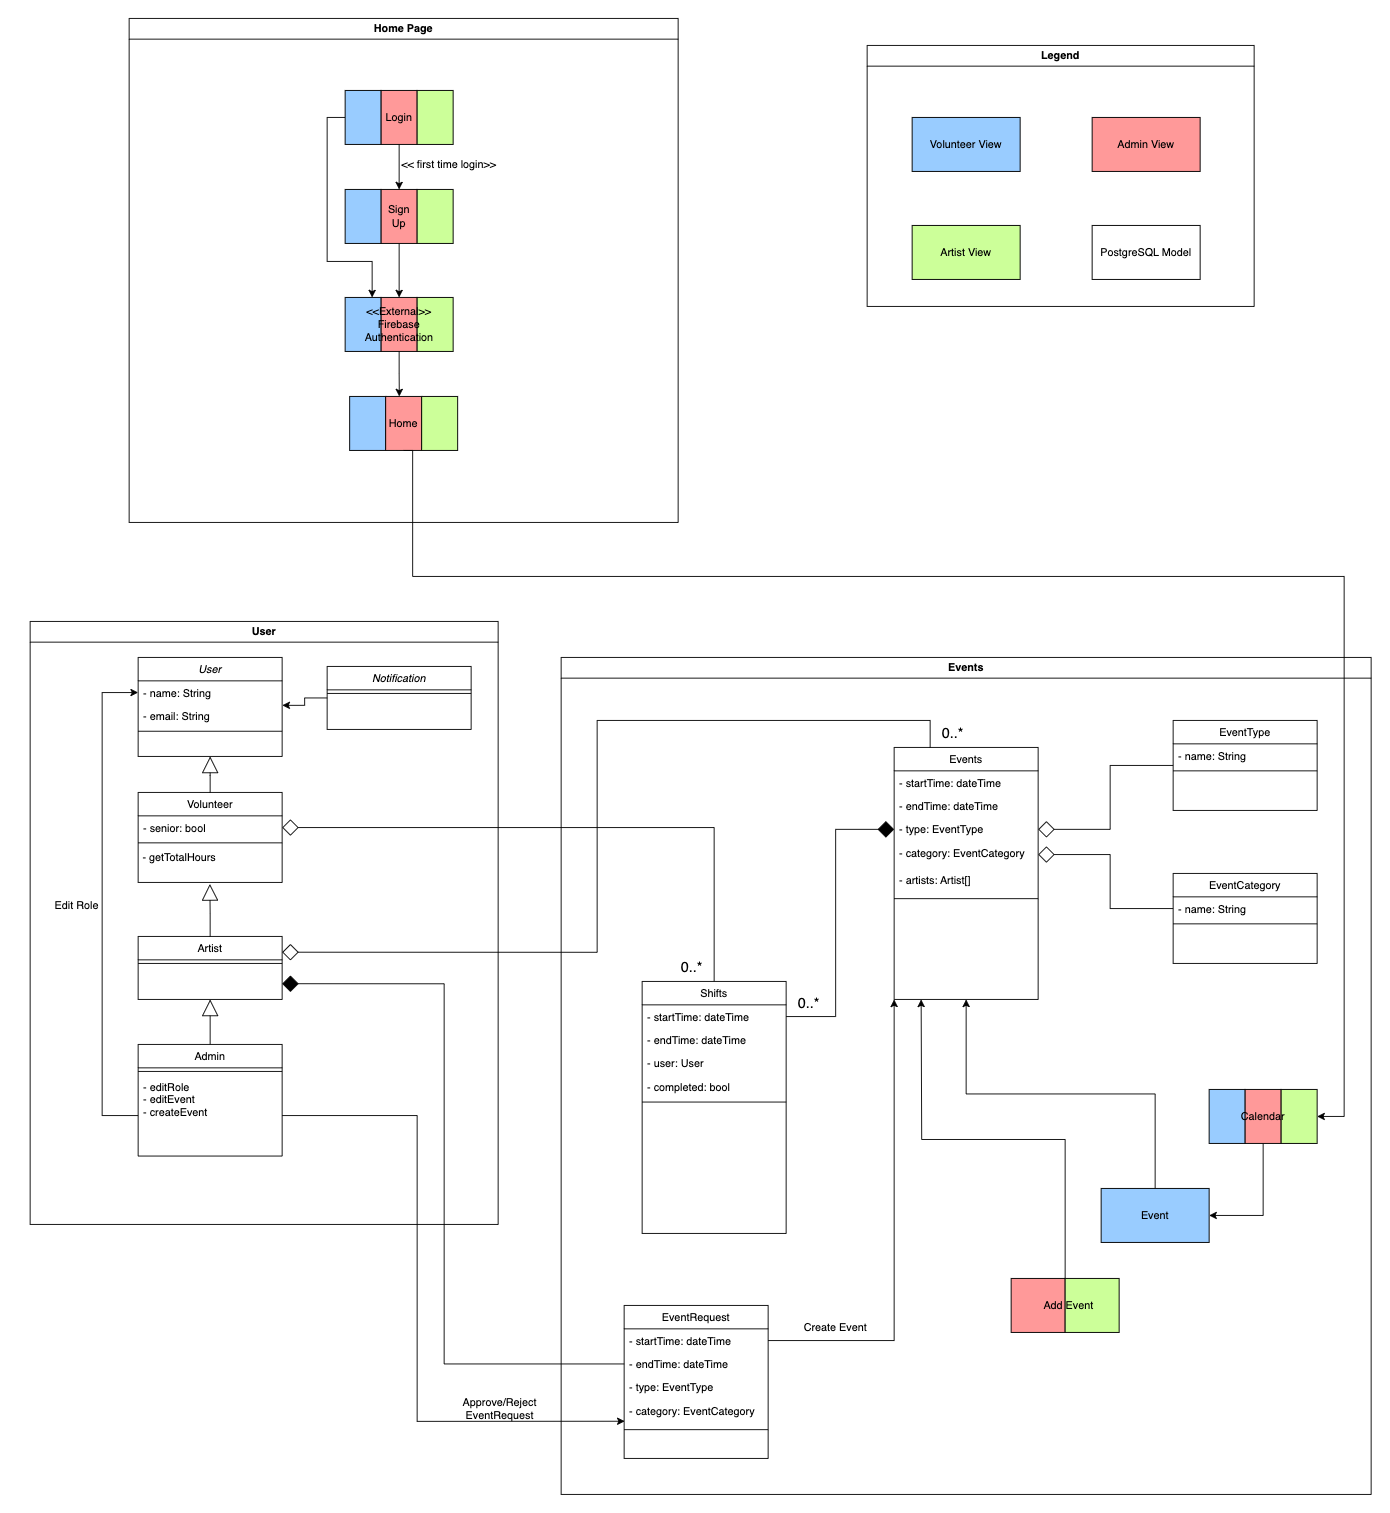
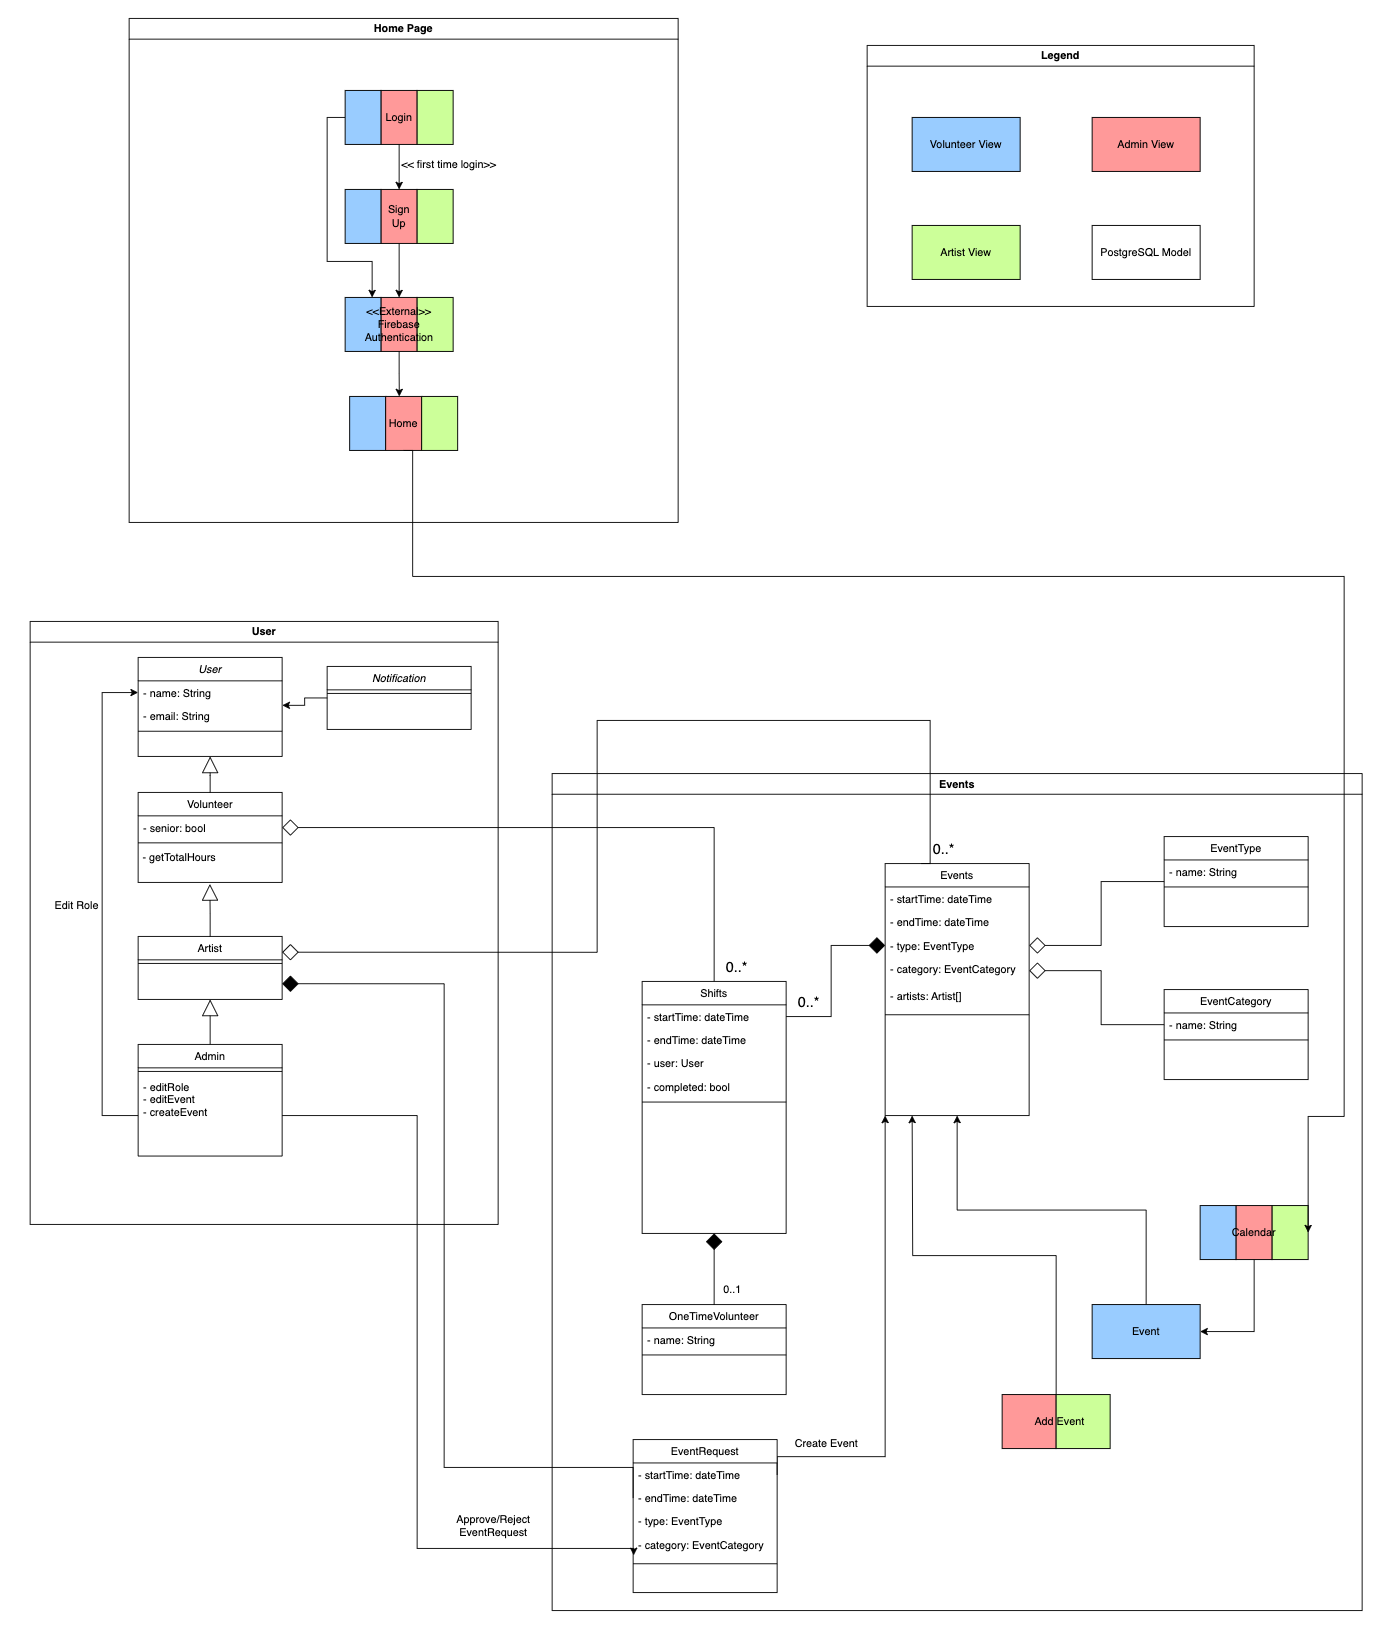
Deployed d3828dd with MkDocs version: 1.6.1

diff --git a/requirements-traceability-matrix/index.html b/requirements-traceability-matrix/index.html
@@ -8,7 +8,7 @@
         
         
         <link rel="shortcut icon" href="../img/favicon.ico">
-        <title>Software Design - Bleeding Heart Art Space</title>
+        <title>Requirements Traceability Matrix - Bleeding Heart Art Space</title>
         <link href="../css/bootstrap.min.css" rel="stylesheet">
         <link href="../css/fontawesome.min.css" rel="stylesheet">
         <link href="../css/brands.min.css" rel="stylesheet">
@@ -41,7 +41,7 @@
                                 <a href="../project-requirements/" class="nav-link">Project Requirements</a>
                             </li>
                             <li class="nav-item">
-                                <a href="./" class="nav-link active" aria-current="page">Software Design</a>
+                                <a href="../software-design/" class="nav-link">Software Design</a>
                             </li>
                             <li class="nav-item">
                                 <a href="../project-management/" class="nav-link">Project Management</a>
@@ -57,16 +57,6 @@
                                 <i class="fa fa-search"></i> Search
                             </a>
                         </li>
-                            <li class="nav-item">
-                                <a rel="prev" href="../project-requirements/" class="nav-link">
-                                    <i class="fa fa-arrow-left"></i> Previous
-                                </a>
-                            </li>
-                            <li class="nav-item">
-                                <a rel="next" href="../project-management/" class="nav-link">
-                                    Next <i class="fa fa-arrow-right"></i>
-                                </a>
-                            </li>
                     </ul>
                 </div>
             </div>
@@ -85,21 +75,9 @@
     <div id="toc-collapse" class="navbar-collapse collapse card bg-body-tertiary">
         <ul class="nav flex-column">
             
-            <li class="nav-item" data-bs-level="1"><a href="#software-design" class="nav-link">Software Design</a>
+            <li class="nav-item" data-bs-level="1"><a href="#requirements-traceability-matrix" class="nav-link">Requirements Traceability Matrix</a>
               <ul class="nav flex-column">
-            <li class="nav-item" data-bs-level="2"><a href="#architecture-diagram" class="nav-link">Architecture Diagram</a>
-              <ul class="nav flex-column">
-              </ul>
-            </li>
-            <li class="nav-item" data-bs-level="2"><a href="#uml-class-diagram" class="nav-link">UML Class Diagram</a>
-              <ul class="nav flex-column">
-              </ul>
-            </li>
-            <li class="nav-item" data-bs-level="2"><a href="#sequence-diagrams" class="nav-link">Sequence Diagrams</a>
-              <ul class="nav flex-column">
-              </ul>
-            </li>
-            <li class="nav-item" data-bs-level="2"><a href="#low-fidelity-user-interface" class="nav-link">Low-Fidelity User Interface</a>
+            <li class="nav-item" data-bs-level="2"><a href="#sprint-2-tests" class="nav-link">Sprint 2 Tests</a>
               <ul class="nav flex-column">
               </ul>
             </li>
@@ -110,37 +88,51 @@
 </div></div>
                     <div class="col-md-9" role="main">
 
-<h1 id="software-design">Software Design</h1>
-<p>This page includes a short description of the overall architecture style of the system, its high-level system components, and their logical (what data they exchange) and control (how they invoke each other) dependencies.</p>
-<h2 id="architecture-diagram">Architecture Diagram</h2>
-<p>The application uses a React frontend that communicates with an Express.js backend via a JSON REST 
-API. The Express.js backend utilizes Kysely SQL builder to communicate with PostgreSQL for data 
-management. The backend also uses Firebase Authentication for user authentication, and SendGrid 
-for email functionality.</p>
-<p><img alt="Architecture Diagram" src="../images/architecture-diagram.png" /></p>
-<h2 id="uml-class-diagram">UML Class Diagram</h2>
-<p>The system revolves around Events, which contain Shifts. Users are the core entity, with specialized classes like Volunteer, Artist, and Admin inheriting from the base User class. Volunteers can sign up for Shifts, while Artists have additional capabilities, including the ability to request Events. Admins possess all permissions of Artists and can also manage user roles. This hierarchy represents a progressive increase in permissions and capabilities from Volunteers to Artists to Admins, with each level inheriting the abilities of the previous one and gaining additional functionalities.</p>
-<p><img alt="UML Diagram" src="../images/UML.png" /></p>
-<h2 id="sequence-diagrams">Sequence Diagrams</h2>
-<p>This sequence diagram details the most important scenarios of how <strong>Admins</strong> and <strong>Volunteers</strong> interact with the system via the <strong>Application</strong> and <strong>Database</strong>:</p>
-<ul>
-<li>
-<p><strong>Admin</strong>: Signs up, logs in, creates and manages events, assigns user permissions, and manages volunteer schedules. These actions involve creating, editing, and retrieving objects like events, user permissions, and schedules, with data being passed between the application and database.</p>
-</li>
-<li>
-<p><strong>Volunteer</strong>: Signs up, logs in, registers for events, checks in/out of events, and views their schedule. Volunteering time is tracked, and all interactions are handled by the application, which updates the database accordingly.</p>
-</li>
-</ul>
-<p>Both roles interact through the <strong>Application</strong>, which communicates with the <strong>Database</strong> to validate, store, and retrieve necessary data for user sessions, event management, and scheduling.</p>
-<p><img alt="Sequence Diagram" src="../images/Sequence-Diagram.png" /></p>
-<h2 id="low-fidelity-user-interface">Low-Fidelity User Interface</h2>
-<p>This is the overall look and feel of the web app.</p>
-<h3 id="admin-ui">Admin UI</h3>
-<p><img alt="Admin UI" src="../images/admin-ui.png" /></p>
-<h3 id="volunteer-ui">Volunteer UI</h3>
-<p><img alt="Volunteer UI" src="../images/volunteer-ui.png" /></p>
-<h3 id="artist-ui">Artist UI</h3>
-<p><img alt="Artist UI" src="../images/artist-ui.png" /></p></div>
+<h1 id="requirements-traceability-matrix">Requirements Traceability Matrix</h1>
+<p>This page outlines the tests that are being carried to verify that all requirements are met.</p>
+<h2 id="sprint-2-tests">Sprint 2 Tests</h2>
+<table>
+<thead>
+<tr>
+<th>ID</th>
+<th>Requirement Description</th>
+<th>Justification</th>
+<th>User Story</th>
+<th>Test Name</th>
+<th>Test Result</th>
+<th>Notes</th>
+</tr>
+</thead>
+<tbody>
+<tr>
+<td>1</td>
+<td>Manage events</td>
+<td>Admins can create, delete and edit events</td>
+<td>1.03</td>
+<td>createEventTest, deleteEventTest, editEventTest</td>
+<td>Pass</td>
+<td>UI Test</td>
+</tr>
+<tr>
+<td>2</td>
+<td>Calendar events</td>
+<td>Events can be seen on the calendar and admins can create the events from the calendar</td>
+<td>2.03</td>
+<td>clickCalendar</td>
+<td>Pass</td>
+<td>UI Test</td>
+</tr>
+<tr>
+<td>3</td>
+<td>Calendar view</td>
+<td>Admins, volunteers, and artists can view an interactive calendar</td>
+<td>4.02</td>
+<td>viewCalendar</td>
+<td>Pass</td>
+<td>UI Test</td>
+</tr>
+</tbody>
+</table></div>
             </div>
         </div>
 

diff --git a/project-management/index.html b/project-management/index.html
@@ -310,7 +310,96 @@
 </table>
 <p>Estimated Sprint Velocity: <strong>37</strong></p>
 <h4 id="tasks_2"><strong>Tasks</strong></h4>
-<p>Sprint 3 tasks will be added during Sprint 2.</p>
+<table>
+<thead>
+<tr>
+<th>Task</th>
+<th>Related US</th>
+<th>Assigned To</th>
+<th>Due Date</th>
+</tr>
+</thead>
+<tbody>
+<tr>
+<td>Multi-factor Authentication</td>
+<td>US 1.01, US 2.01</td>
+<td>Chase Johnson, Rishit Gajjar</td>
+<td>Oct 22</td>
+</tr>
+<tr>
+<td>Password Recovery</td>
+<td>US 1.01, US 2.01</td>
+<td>Chase Johnson, Rishit Gajjar</td>
+<td>Oct 22</td>
+</tr>
+<tr>
+<td>Google sign up and log in</td>
+<td>US 1.01, US 1.02, US 2.01, US 2.02</td>
+<td>Chase Johnson, Rishit Gajjar</td>
+<td>Oct 22</td>
+</tr>
+<tr>
+<td>Create different dashboard views for Admin, volunteers, and artists</td>
+<td>US 1.05, US 1.08</td>
+<td>Chase Johnson,Rishit Gajjar</td>
+<td>Oct 22</td>
+</tr>
+<tr>
+<td>Create roles/permissions for volunteers</td>
+<td>US 1.04</td>
+<td>Chase Johnson, Rishit Gajjar</td>
+<td>Oct 22</td>
+</tr>
+<tr>
+<td>Schedule view for volunteers</td>
+<td>US 1.05</td>
+<td>Samuel Chan, Amaan Mohammed</td>
+<td>Oct 25</td>
+</tr>
+<tr>
+<td>Create shifts for volunteers</td>
+<td>US 1.05, US 1.08</td>
+<td>Samuel Chan, Amaan Mohammed</td>
+<td>Oct 25</td>
+</tr>
+<tr>
+<td>Volunteers can sign up for shifts in events</td>
+<td>US 2.04</td>
+<td>Rushabh Shah, Anhadpreet Singh</td>
+<td>Oct 25</td>
+</tr>
+<tr>
+<td>Volunteers can check in and out of event</td>
+<td>US 2.06, US 2.07, US 2.08</td>
+<td>Rushabh Shah, Anhadpreet Singh</td>
+<td>Oct 25</td>
+</tr>
+<tr>
+<td>Artists can request their own event</td>
+<td>US 3.01</td>
+<td>Amaan Mohammed</td>
+<td>Oct 25</td>
+</tr>
+<tr>
+<td>Artists have permissions for shifts/one-time volunteers</td>
+<td>US 3.03, US 3.04</td>
+<td>Samuel Chan</td>
+<td>Oct 25</td>
+</tr>
+<tr>
+<td>Artists can sign up for and manage events</td>
+<td>US 3.02, US 3.05</td>
+<td>Rushabh Shah, Anhadpreet Singh</td>
+<td>Oct 25</td>
+</tr>
+<tr>
+<td>UI/UX Design</td>
+<td>Design</td>
+<td>Amaan Mohammed</td>
+<td>Oct 25</td>
+</tr>
+</tbody>
+</table>
 <h3 id="sprint-4"><strong>Sprint 4</strong></h3>
 <p><em>Due: November 18, 2024</em></p>
 <h4 id="user-stories_2"><strong>User stories</strong></h4>

diff --git a/project-requirements/index.html b/project-requirements/index.html
@@ -111,7 +111,7 @@
               <ul class="nav flex-column">
               </ul>
             </li>
-            <li class="nav-item" data-bs-level="2"><a href="#techincal-resources" class="nav-link">Techincal Resources</a>
+            <li class="nav-item" data-bs-level="2"><a href="#technical-resources" class="nav-link">Technical Resources</a>
               <ul class="nav flex-column">
               </ul>
             </li>
@@ -157,15 +157,19 @@
 <li>
 <p><strong>Dashboard</strong>: A centralized page where admins can monitor events, volunteer sign-ups, attendance, and manage schedules. Volunteers may also have a dashboard to view upcoming events they are signed up for.</p>
 </li>
+<li>
+<p><strong>One-time User</strong>: A user that does not have an account that is added to an event as a one-time volunteer or artist by an admin of the event.</p>
+</li>
 </ul>
 <h2 id="user-stories">User Stories</h2>
 <h3 id="admin-user-stories">Admin User Stories</h3>
 <h4 id="us-101-admin-sign-up">US 1.01 - Admin Sign up</h4>
 <blockquote>
-<p>As an Admin, I want to sign up securely through a code/link so that I can gain admin privileges.</p>
+<p>As an Admin, I want to sign up securely so that I can re-use my account to manage events and volunteers in the future.</p>
 <p>Acceptance Criteria:</p>
 <ol>
-<li>Admin can sign up one time using a link/code</li>
+<li>Admin can sign up using email and password or social login.</li>
+<li>Secure password recovery and multi-factor authentication.</li>
 </ol>
 </blockquote>
 <h4 id="us-102-login-and-logout-securely">US 1.02 - Login and logout Securely</h4>
@@ -497,7 +501,7 @@
 </ul>
 </li>
 </ul>
-<h2 id="techincal-resources">Techincal Resources</h2>
+<h2 id="technical-resources">Technical Resources</h2>
 <h3 id="frontend-react-vite-with-typescript">Frontend: React (Vite with Typescript)</h3>
 <ul>
 <li><a href="https://react.dev/learn">React Documentation</a></li>

diff --git a/index.html b/index.html
@@ -105,6 +105,7 @@
 <li><a href="software-design/">Software Design</a></li>
 <li><a href="project-management/">Project Management</a></li>
 <li><a href="teamwork/">Teamwork</a></li>
+<li><a href="requirements-traceability-matrix/">Tests Matrix</a></li>
 </ul></div>
             </div>
         </div>
@@ -187,5 +188,5 @@
 
 <!--
 MkDocs version : 1.6.1
-Build Date UTC : 2024-09-30 21:28:19.939039+00:00
+Build Date UTC : 2024-10-15 00:09:54.621174+00:00
 -->

diff --git a/teamwork/index.html b/teamwork/index.html
@@ -111,6 +111,11 @@
 <h2 id="team-canvas">Team Canvas</h2>
 <p><img alt="Team Canvas" src="../images/team-canvas.jpg" /></p>
 <h2 id="scrum-roles">Scrum Roles</h2>
+<h4 id="sprint-1">Sprint 1:</h4>
+<ul>
+<li><strong>Scrum Master</strong> - Amaan Mohammed</li>
+<li><strong>Product Owner</strong> - Chase Johnson</li>
+</ul>
 <h4 id="sprint-2">Sprint 2:</h4>
 <ul>
 <li><strong>Scrum Master</strong> - Amaan Mohammed</li>
